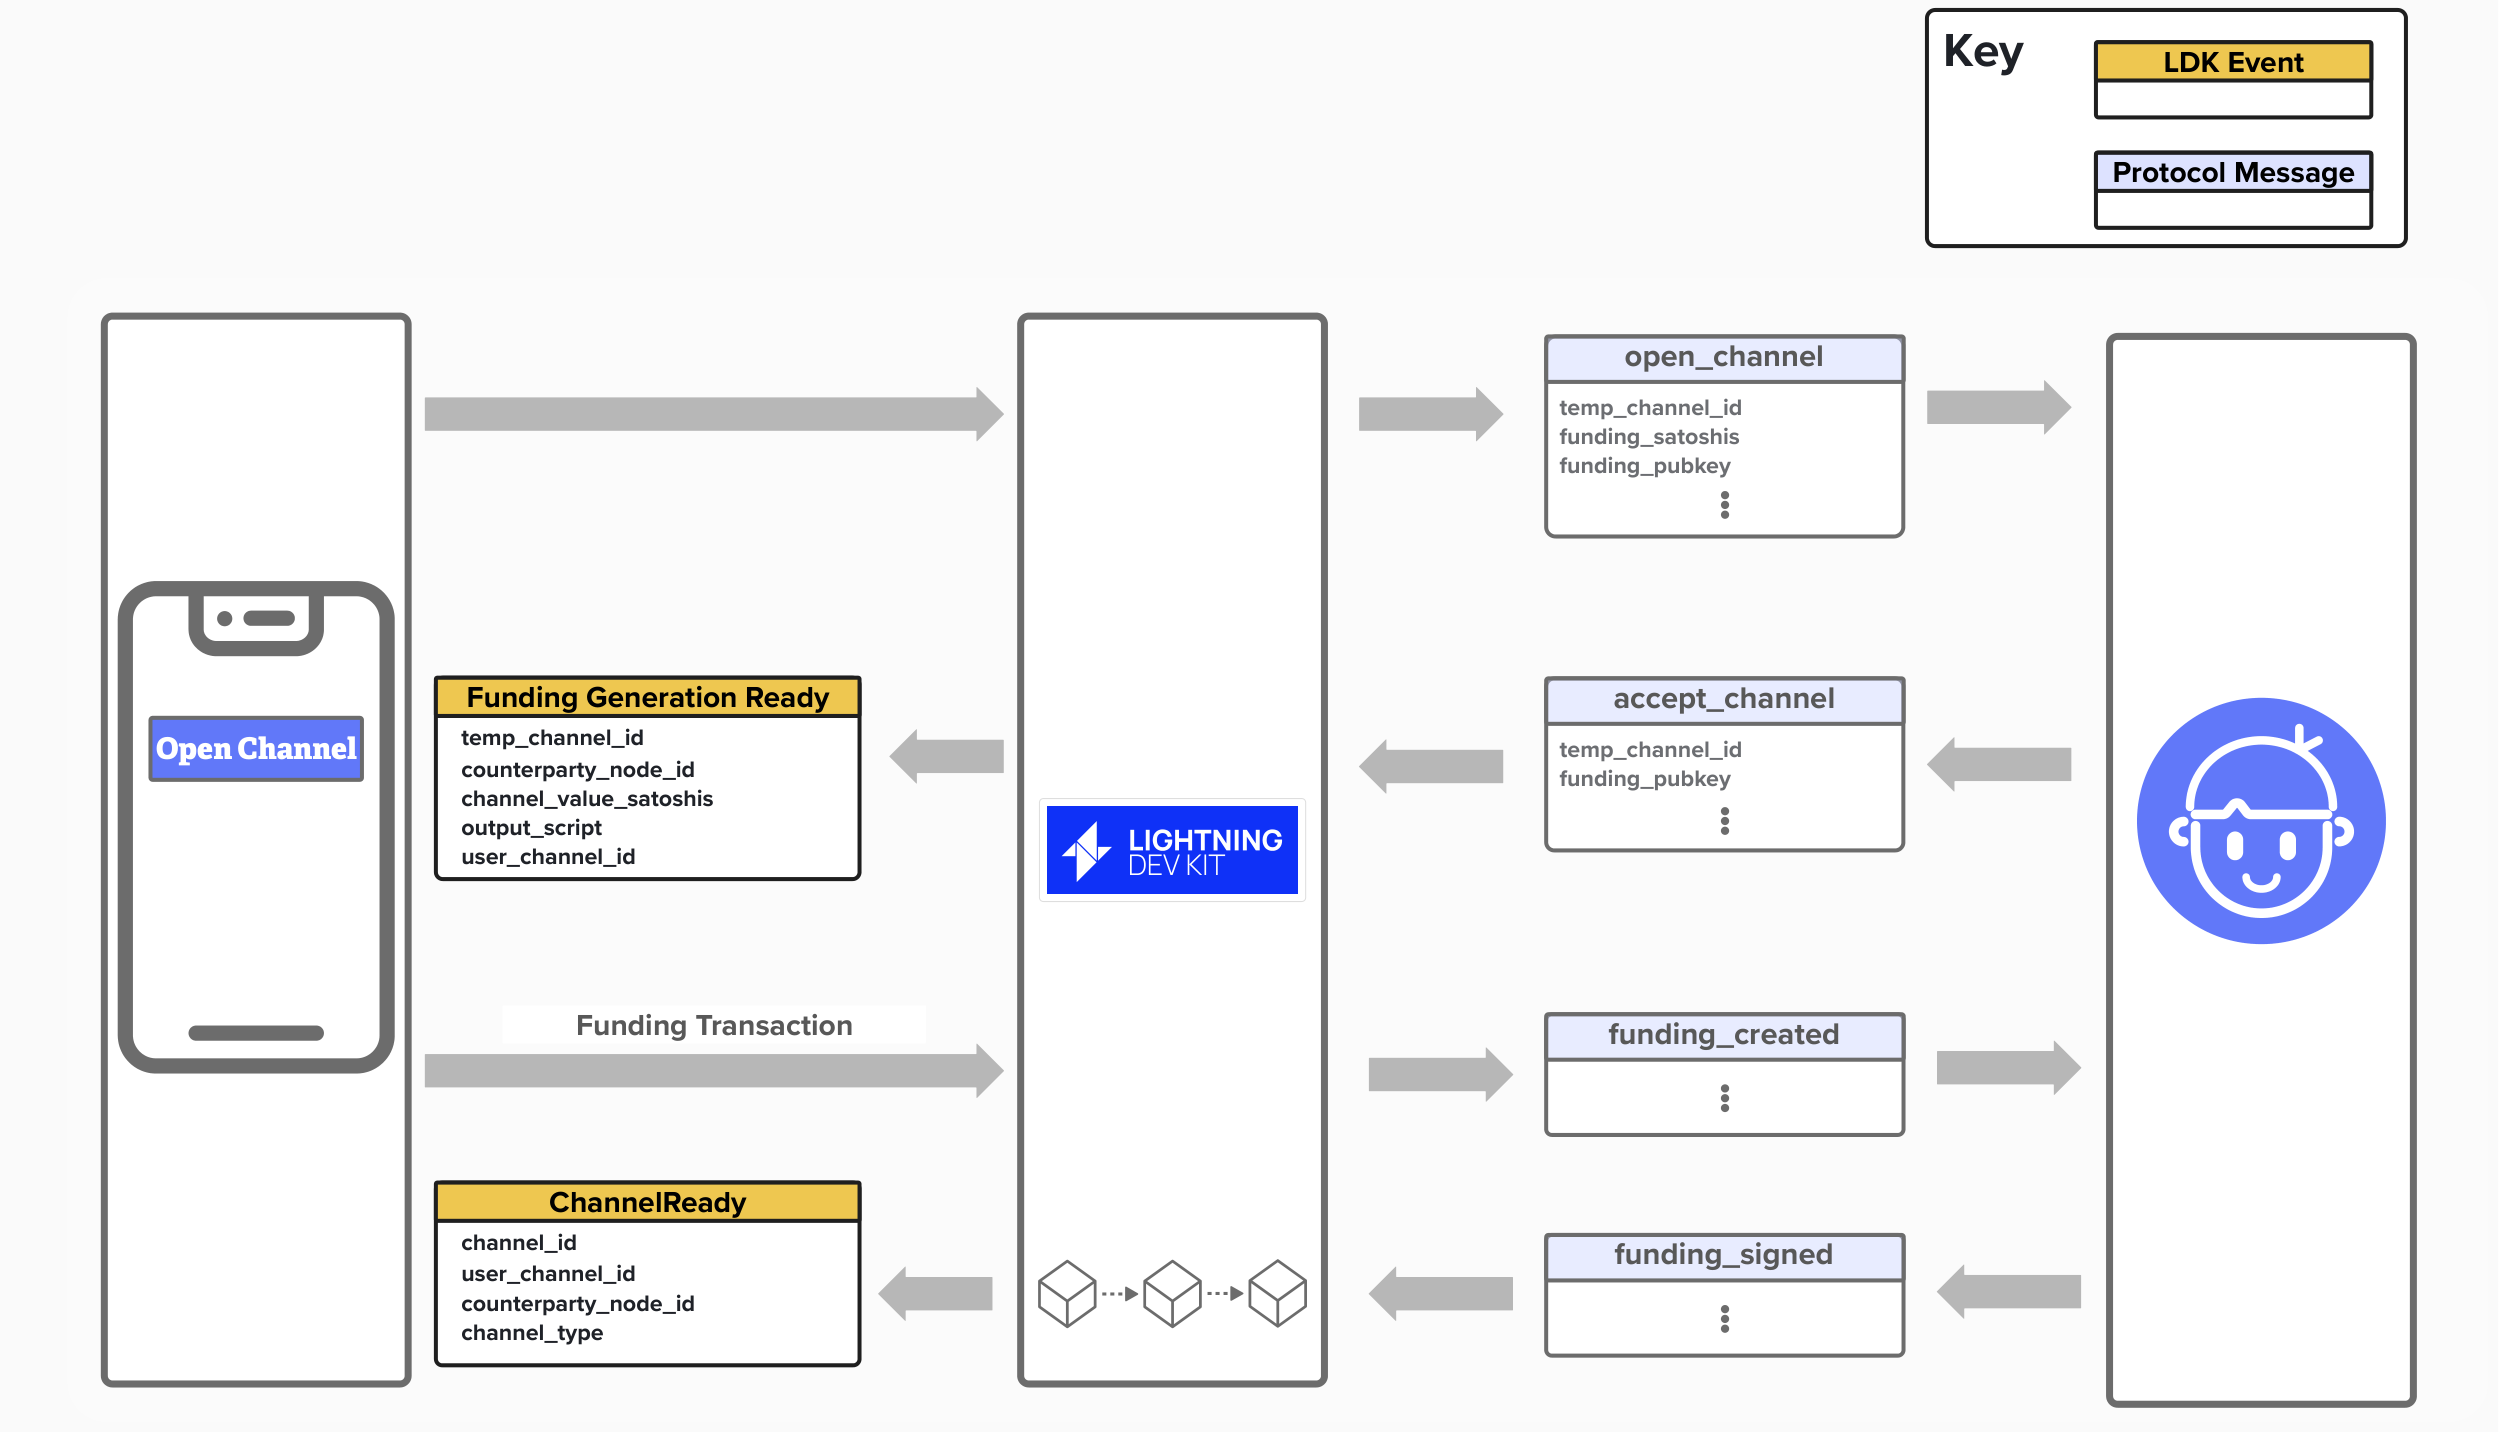
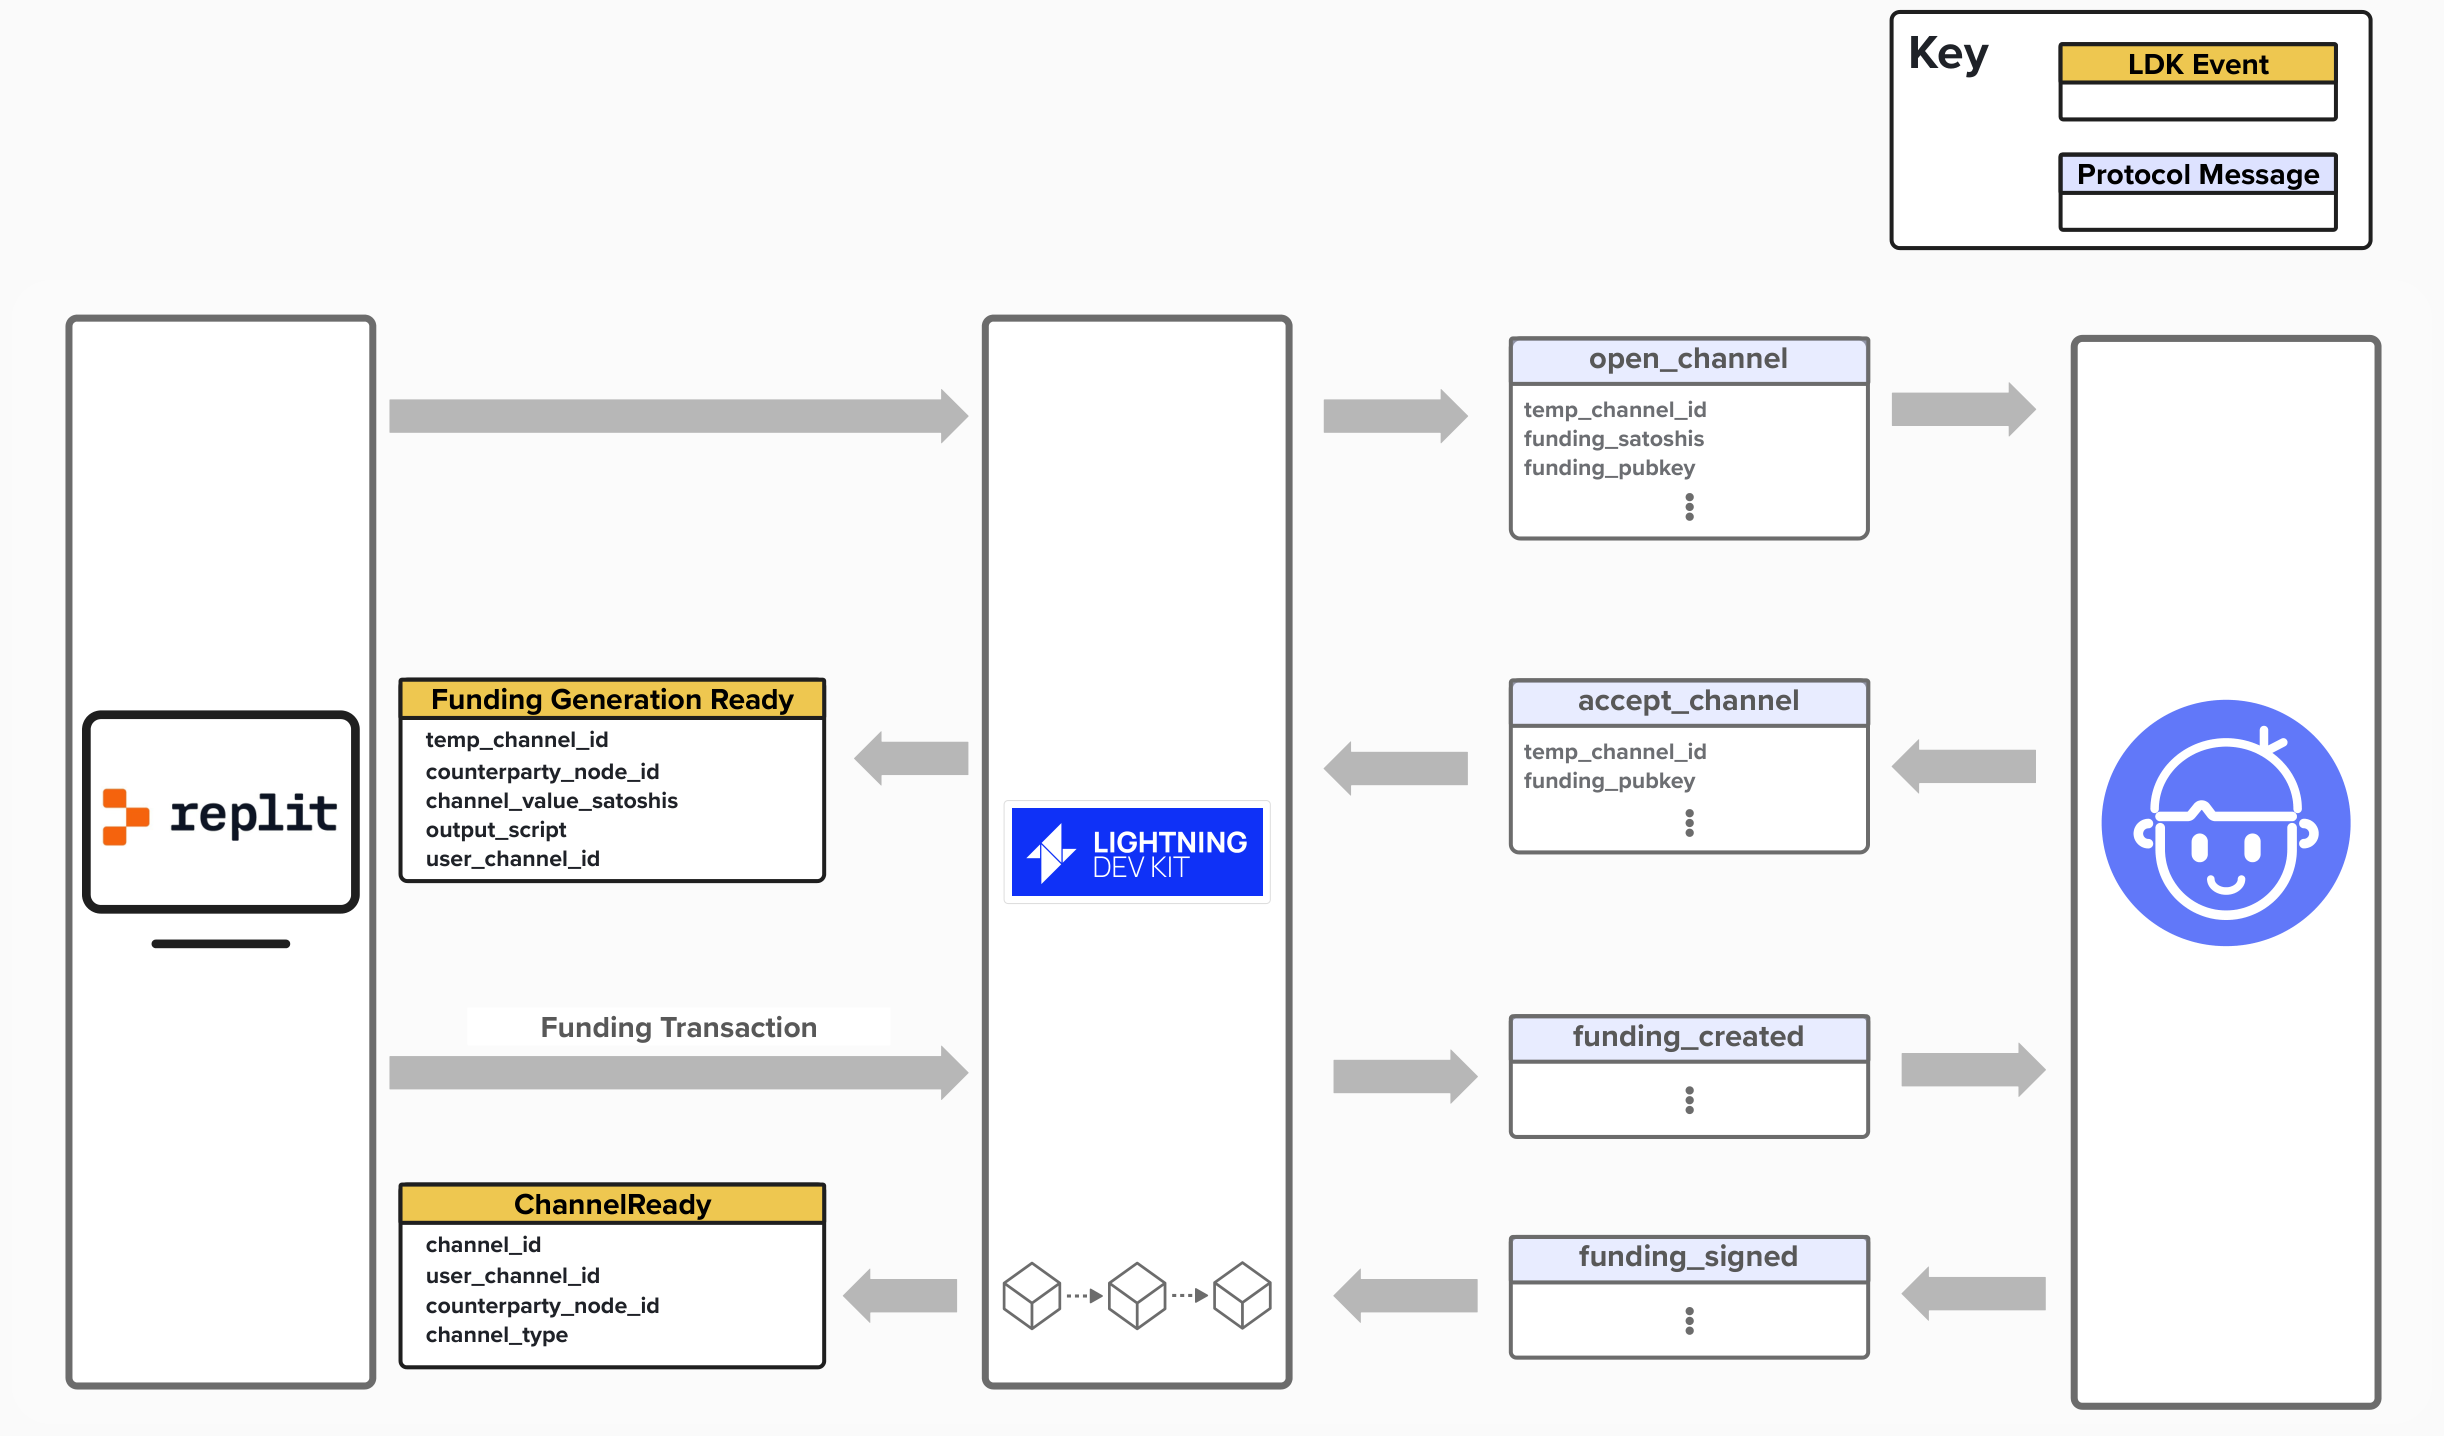
update exercise instructions and images

diff --git a/src/tests.rs b/src/tests.rs
@@ -101,7 +101,7 @@ async fn get_wallet() -> Arc<LdkOnChainWallet> {
 }
 
 #[cfg(test)]
-mod bitcoind_tests {
+mod programming_lightning {
 	use super::*;
 	use serial_test::serial;
 

diff --git a/.tutorial/1.04-lightning-development-kit.md b/.tutorial/1.04-lightning-development-kit.md
@@ -94,38 +94,20 @@ pub trait BroadcasterInterface {
 
 </details>
 
-4) **NodeSigner**
-   - Interface to handle cryptographic opperations at the node level, such as signing gossip messages and invoices.
+4) **WalletSource**
+   - Interface to provide on-chain functionality to LDK, such as fetching UTXOs, change scripts, and signing partially signed bitcoin transactions.
 
 <details>
   <summary>
-    Click here see the NodeSigner trait
+    Click here see the WalletSource trait
 </summary>
 
 ```rust
-pub trait NodeSigner {
+pub trait WalletSource {
     // Required methods
-    fn get_inbound_payment_key(&self) -> ExpandedKey;
-    fn get_node_id(&self, recipient: Recipient) -> Result<PublicKey, ()>;
-    fn ecdh(
-        &self,
-        recipient: Recipient,
-        other_key: &PublicKey,
-        tweak: Option<&Scalar>,
-    ) -> Result<SharedSecret, ()>;
-    fn sign_invoice(
-        &self,
-        invoice: &RawBolt11Invoice,
-        recipient: Recipient,
-    ) -> Result<RecoverableSignature, ()>;
-    fn sign_bolt12_invoice(
-        &self,
-        invoice: &UnsignedBolt12Invoice,
-    ) -> Result<Signature, ()>;
-    fn sign_gossip_message(
-        &self,
-        msg: UnsignedGossipMessage<'_>,
-    ) -> Result<Signature, ()>;
+    fn list_confirmed_utxos(&self) -> Result<Vec<Utxo>, ()>;
+    fn get_change_script(&self) -> Result<ScriptBuf, ()>;
+    fn sign_psbt(&self, psbt: Psbt) -> Result<Transaction, ()>;
 }
 ```
 
@@ -235,7 +217,7 @@ In this way, LDK is able to process many events asynchronously, notifying us as 
 ## File Structure
 In hopes of peicing this all together and providing a visual aid for what we'll be implementing today, take a look at the diagram below. On the left, you'll see all of the files in this repls `./src/` folder. We won't be working with every file in this folder, but there are a few important ones that we'll be making changes to. Those files are highlighted in blue.
 
-On the right, you'll see those same "important" files next to the specific component that we'll be implementing in that file. For example, the block retrieval, transaction broadcasting, fee estimation, and on-chain wallet operations will mostly be implemented in `bitcoind_client.rs`.
+On the right, you'll see those same "important" files next to the specific component that we'll be implementing in that file. For example, the block retrieval, transaction broadcasting, and fee estimation will be implemented in `bitcoind_client.rs`.
 
 <p align="center" style="width: 50%; max-width: 300px;">
   <img src="./tutorial_images/file_structure.png" alt="file_structure" width="100%" height="auto">

diff --git a/.tutorial/1.02-setup.md b/.tutorial/1.02-setup.md
@@ -1,13 +1,13 @@
 #  Testing
-As we continue through this workshop, we'll build our intuition of how Lightning works by implementing various funcitons. To provide a better learning experience, each function has a test associated with it. If your implementation is correct, you should see that you've passed the test for that function.
+As we continue through this workshop, we'll build our intuition of how Lightning works by implementing various functions. To provide a better learning experience, each function has a test associated with it. If your implementation is correct, you should see that you've passed the test for that function.
 
-To run the tests, you will click the green "Run" button at the top of this Repl.
+To run the tests, you will click the green "Run" button at the top left of this Repl.
 
 <p align="center" style="width: 50%; max-width: 300px;">
-  <img src="./tutorial_images/run.png" alt="run" width="8%" height="auto">
+  <img src="./tutorial_images/run.png" alt="run" width="100%" height="auto">
 </p>
 
-Once you click it, a **Console** tab should open (if it wasn't open already), and you will see the result of the tests. If you do this now, you should see that all tests are failing! This makes sense, since we have not yet implemented any functions.
+Once you click it, a **Console** tab should open (if it wasn't open already), and you will see the result of the tests. If you do this now, you should see that all tests are failing! This makes sense, since we have not yet completed any functions.
 
 <p align="center" style="width: 50%; max-width: 300px;">
   <img src="./tutorial_images/tests.png" alt="tests" width="70%" height="auto">

diff --git a/.tutorial/1.03.6-ldk-intro.md b/.tutorial/1.03.6-ldk-intro.md
@@ -141,6 +141,8 @@ Self {
 
 </details>
 
+**You should be good-to-go! Try implementing the `new` constructor in `src/logger.rs`**! Click `Run` at the top of the Replit when you're done to see if the test `tests::programming_lightning::test_01_filesystem_logger_new ...` passes.
+
 ## ⚡ Implement LDK `Logger` Trait For FilesystemLogger
 The `Logger` trait in LDK is a critical interface for defining how logging is handled in your Lightning node. Logging is essential for debugging, monitoring, and auditing node operations, such as channel events, peer connections, or errors. The `Logger` trait defines a single method, `log`, which takes a `Record` (containing log details like message, level, module, and line number) and processes it according to the implementation.
 
@@ -227,3 +229,5 @@ fs::OpenOptions::new()
 - `.write_all(log.as_bytes())` writes the log entry as bytes to the file.
 - `.unwrap()` assumes the write succeeds; handle errors in production.
 </details>
+
+**You should be good-to-go! Try implementing the `new` constructor in `src/logger.rs`**! Click `Run` at the top of the Replit when you're done to see if the test `test_02_filesystem_logger_log...` passes.

diff --git a/.tutorial/1.17-ldk-event-handler.md b/.tutorial/1.17-ldk-event-handler.md
@@ -253,6 +253,8 @@ channel_manager.funding_transaction_generated(
 - `counterparty_node_id` is the public node ID for our counterparty
 </details>
 
+**You should be good-to-go! Try implementing the `new` constructor in ```src/events.rs```**! Click `Run` at the top of the Replit when you're done to see if the test `tests::programming_lightning::test_10_handle_ldk_events ...` passes.
+
 ## Starting The Event Handler
 
 Once we've configured our custom logic for handling LDK events, we'll need to start a **background processor**. The background processor will orchestate all of the components that we've created, glueing them together so that they can communicate with each other and process events accordingly. LDK provides a `lightning-background-processor` crate with both synchronous and asychronous background processing implementations that developers can use.

diff --git a/.tutorial/1.05-bitcoind_client.md b/.tutorial/1.05-bitcoind_client.md
@@ -248,8 +248,8 @@ Ok(client)
 
 </details>
 
-**You should be good-to-go! Try implementing the `new` constructor in ```src/bitcoind_client.rs```**! Click `Run` at the top of the Replit when you're done to see if the test `tests::bitcoind_tests::test_bitcoind_client_creation ...` passes.
+**You should be good-to-go! Try implementing the `new` constructor in ```src/bitcoind_client.rs```**! Click `Run` at the top of the Replit when you're done to see if the test `tests::programming_lightning::test_03_bitcoind_client_new...` passes.
 
 <p align="center" style="width: 50%; max-width: 300px;">
-  <img src="./tutorial_images/run.png" alt="run" width="15%" height="auto">
+  <img src="./tutorial_images/run.png" alt="run" width="100%" height="auto">
 </p>

diff --git a/.tutorial/1.08-fee-estimation.md b/.tutorial/1.08-fee-estimation.md
@@ -141,6 +141,8 @@ Remember, thread-safe access is required because the `BitcoindClient` will be sh
 
 </details>
 
+**You should be good-to-go! Try implementing the `new` constructor in ```src/bitcoind_client.rs```**! Click `Run` at the top of the Replit when you're done to see if the test `tests::programming_lightning::test_06_get_est_sat_per_1000_weight ...` passes.
+
 
 ### Questions: Think through the below questions and see if you can come up with an answer to each one. When you're ready, click to see more information.
 

diff --git a/.tutorial/1.06-blockchain-source.md b/.tutorial/1.06-blockchain-source.md
@@ -172,3 +172,5 @@ Ok(self.bitcoind_rpc_client.call_method("getblockchaininfo", &[]).await?)
 - `Ok(...)` prepares the result for the expected return type `AsyncBlockSourceResult<(BlockHash, Option<u32>)>`.
 
 </details>
+
+**You should be good-to-go! Try implementing the `new` constructor in ```src/bitcoind_client.rs```**! Click `Run` at the top of the Replit when you're done to see if the test `tests::programming_lightning::test_04_block_source ...` passes.

diff --git a/.tutorial/1.18-ldk-open-channel.md b/.tutorial/1.18-ldk-open-channel.md
@@ -412,3 +412,5 @@ match channel_manager.create_channel(peer_pubkey, channel_amt_sat, 0, 0, None, S
 - `return Err(())` indicates failure, using the unit type as a simple error indicator.
 
 </details>
+
+**You should be good-to-go! Try implementing the `new` constructor in ```src/commands.rs```**! Click `Run` at the top of the Replit when you're done to see if the test `tests::programming_lightning::test_11_open_channel ...` passes.

diff --git a/.tutorial/1.19-ldk-send-payment.md b/.tutorial/1.19-ldk-send-payment.md
@@ -420,3 +420,5 @@ match channel_manager.send_payment(
 - `.unwrap()` on `get_mut` and `fs_store.write` assumes success (handle errors in production).
 
 </details>
+
+**You should be good-to-go! Try implementing the `new` constructor in ```src/commands.rs```**! Click `Run` at the top of the Replit when you're done to see if the test `tests::programming_lightning::test_12_send_payment ...` passes.

diff --git a/.tutorial/1.07-broadcaster.md b/.tutorial/1.07-broadcaster.md
@@ -164,3 +164,5 @@ Err(e) => {
 - The error `e` contains details about the failure (e.g., network issues).
 
 </details>
+
+**You should be good-to-go! Try implementing the `new` constructor in ```src/bitcoind_client.rs```**! Click `Run` at the top of the Replit when you're done to see if the test `tests::programming_lightning::test_05_broadcast_transactions ...` passes.

diff --git a/.tutorial/1.09-on-chain-wallet.md b/.tutorial/1.09-on-chain-wallet.md
@@ -496,3 +496,5 @@ tx
 - Use `psbt.extract_tx()` to get the final signed Bitcoin transaction
 
 </details>
+
+**You should be good-to-go! Try implementing the `new` constructor in ```src/onchain_wallet.rs```**! Click `Run` at the top of the Replit when you're done to see if the test `tests::programming_lightning::test_07_create_funding_transaction ...` passes.
